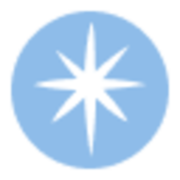
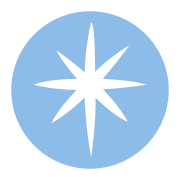
Updates

diff --git a/turntable-app/index.html b/turntable-app/index.html
@@ -48,7 +48,7 @@
         }
       }
     })
-  </script><link rel="canonical" href="https://seohee0507.github.io/gatsby-archive/turntable-app/" data-baseprotocol="https:" data-basehost="seohee0507.github.io"/><title data-react-helmet="true">Turntable 플레이리스트</title><link data-react-helmet="true" rel="icon" href="/gatsby-archive/favicon.ico"/><link data-react-helmet="true" rel="icon" href="/gatsby-archive/favicon.png" type="image/png" sizes="48x48"/><link data-react-helmet="true" rel="apple-touch-icon" href="/gatsby-archive/apple-touch-icon.png" sizes="180x180"/><link data-react-helmet="true" rel="apple-touch-icon-precomposed" href="/gatsby-archive/apple-touch-icon-precomposed.png" sizes="180x180"/><link rel="sitemap" type="application/xml" href="/gatsby-archive/sitemap-index.xml"/><script>(function(w,d,s,l,i){w[l]=w[l]||[];w[l].push({'gtm.start':
+  </script><link rel="canonical" href="https://seohee0507.github.io/gatsby-archive/turntable-app/" data-baseprotocol="https:" data-basehost="seohee0507.github.io"/><title data-react-helmet="true">Turntable 플레이리스트</title><link data-react-helmet="true" rel="icon" href="/gatsby-archive/favicon.ico"/><link data-react-helmet="true" rel="shortcut icon" href="/gatsby-archive/favicon.ico" type="image/x-icon"/><link data-react-helmet="true" rel="icon" href="/gatsby-archive/favicon.png" sizes="48x48"/><link data-react-helmet="true" rel="apple-touch-icon" href="/gatsby-archive/apple-touch-icon.png" sizes="180x180"/><link data-react-helmet="true" rel="apple-touch-icon-precomposed" href="/gatsby-archive/apple-touch-icon-precomposed.png" sizes="180x180"/><link rel="sitemap" type="application/xml" href="/gatsby-archive/sitemap-index.xml"/><script>(function(w,d,s,l,i){w[l]=w[l]||[];w[l].push({'gtm.start':
 new Date().getTime(),event:'gtm.js'});var f=d.getElementsByTagName(s)[0],
 j=d.createElement(s),dl=l!='dataLayer'?'&l='+l:'';j.async=true;j.src=
 'https://www.googletagmanager.com/gtm.js?id='+i+dl;f.parentNode.insertBefore(j,f);
@@ -112,8 +112,19 @@ j=d.createElement(s),dl=l!='dataLayer'?'&l='+l:'';j.async=true;j.src=
 <li>시각적 위계</li>
 <li>텍스트 가독성 : 앨범커버에 이미지 그라데이션 블러 추가</li>
 </ul>
-<h2 id="구현-순서" style="position:relative;"><a href="#%EA%B5%AC%ED%98%84-%EC%88%9C%EC%84%9C" aria-label="구현 순서 permalink" class="link-headers before"><svg aria-hidden="true" focusable="false" height="16" version="1.1" viewBox="0 0 16 16" width="16"><path fill-rule="evenodd" d="M4 9h1v1H4c-1.5 0-3-1.69-3-3.5S2.55 3 4 3h4c1.45 0 3 1.69 3 3.5 0 1.41-.91 2.72-2 3.25V8.59c.58-.45 1-1.27 1-2.09C10 5.22 8.98 4 8 4H4c-.98 0-2 1.22-2 2.5S3 9 4 9zm9-3h-1v1h1c1 0 2 1.22 2 2.5S13.98 12 13 12H9c-.98 0-2-1.22-2-2.5 0-.83.42-1.64 1-2.09V6.25c-1.09.53-2 1.84-2 3.25C6 11.31 7.55 13 9 13h4c1.45 0 3-1.69 3-3.5S14.5 6 13 6z"></path></svg></a>구현 순서</h2>
+<h2 id="구현" style="position:relative;"><a href="#%EA%B5%AC%ED%98%84" aria-label="구현 permalink" class="link-headers before"><svg aria-hidden="true" focusable="false" height="16" version="1.1" viewBox="0 0 16 16" width="16"><path fill-rule="evenodd" d="M4 9h1v1H4c-1.5 0-3-1.69-3-3.5S2.55 3 4 3h4c1.45 0 3 1.69 3 3.5 0 1.41-.91 2.72-2 3.25V8.59c.58-.45 1-1.27 1-2.09C10 5.22 8.98 4 8 4H4c-.98 0-2 1.22-2 2.5S3 9 4 9zm9-3h-1v1h1c1 0 2 1.22 2 2.5S13.98 12 13 12H9c-.98 0-2-1.22-2-2.5 0-.83.42-1.64 1-2.09V6.25c-1.09.53-2 1.84-2 3.25C6 11.31 7.55 13 9 13h4c1.45 0 3-1.69 3-3.5S14.5 6 13 6z"></path></svg></a>구현</h2>
 <ol>
+<li>플레이리스트 데이터 스키마 설계 및 데이터 구축</li>
+</ol>
+<ul>
+<li>데이터 생성
+<ul>
+<li>YouTube API :</li>
+</ul>
+</li>
+<li>데이터 저장 → Supabase</li>
+</ul>
+<ol start="2">
 <li></li>
 </ol>
 <h2 id="로그인-회원가입" style="position:relative;"><a href="#%EB%A1%9C%EA%B7%B8%EC%9D%B8-%ED%9A%8C%EC%9B%90%EA%B0%80%EC%9E%85" aria-label="로그인 회원가입 permalink" class="link-headers before"><svg aria-hidden="true" focusable="false" height="16" version="1.1" viewBox="0 0 16 16" width="16"><path fill-rule="evenodd" d="M4 9h1v1H4c-1.5 0-3-1.69-3-3.5S2.55 3 4 3h4c1.45 0 3 1.69 3 3.5 0 1.41-.91 2.72-2 3.25V8.59c.58-.45 1-1.27 1-2.09C10 5.22 8.98 4 8 4H4c-.98 0-2 1.22-2 2.5S3 9 4 9zm9-3h-1v1h1c1 0 2 1.22 2 2.5S13.98 12 13 12H9c-.98 0-2-1.22-2-2.5 0-.83.42-1.64 1-2.09V6.25c-1.09.53-2 1.84-2 3.25C6 11.31 7.55 13 9 13h4c1.45 0 3-1.69 3-3.5S14.5 6 13 6z"></path></svg></a>로그인, 회원가입</h2>
@@ -448,6 +459,6 @@ j=d.createElement(s),dl=l!='dataLayer'?'&l='+l:'';j.async=true;j.src=
           <script
             id="gatsby-chunk-mapping"
           >
-            window.___chunkMapping="{\"app\":[\"/app-f07a150d71677f47d353.js\"],\"component---src-pages-404-tsx\":[\"/component---src-pages-404-tsx-8a74a841a3266e3b5e38.js\"],\"component---src-pages-index-tsx\":[],\"component---src-templates-post-template-tsx\":[\"/component---src-templates-post-template-tsx-955b84999181d3f61f6b.js\"]}";
+            window.___chunkMapping="{\"app\":[\"/app-03278e0438caac6f417a.js\"],\"component---src-pages-404-tsx\":[\"/component---src-pages-404-tsx-8a74a841a3266e3b5e38.js\"],\"component---src-pages-index-tsx\":[],\"component---src-templates-post-template-tsx\":[\"/component---src-templates-post-template-tsx-955b84999181d3f61f6b.js\"]}";
           </script>
-        <script>window.___webpackCompilationHash="7110666ce4c1a349ba5c";</script><script src="/gatsby-archive/webpack-runtime-16017e0074101bbbb339.js" async></script><script src="/gatsby-archive/app-f07a150d71677f47d353.js" async></script><!-- slice-end id="_gatsby-scripts-1" --></body></html>
+        <script>window.___webpackCompilationHash="da50b0e5b136f4c87446";</script><script src="/gatsby-archive/webpack-runtime-16017e0074101bbbb339.js" async></script><script src="/gatsby-archive/app-03278e0438caac6f417a.js" async></script><!-- slice-end id="_gatsby-scripts-1" --></body></html>

diff --git a/browser-basic/index.html b/browser-basic/index.html
@@ -48,7 +48,7 @@
         }
       }
     })
-  </script><link rel="canonical" href="https://seohee0507.github.io/gatsby-archive/browser-basic/" data-baseprotocol="https:" data-basehost="seohee0507.github.io"/><title data-react-helmet="true">브라우저 구조</title><link data-react-helmet="true" rel="icon" href="/gatsby-archive/favicon.ico"/><link data-react-helmet="true" rel="icon" href="/gatsby-archive/favicon.png" type="image/png" sizes="48x48"/><link data-react-helmet="true" rel="apple-touch-icon" href="/gatsby-archive/apple-touch-icon.png" sizes="180x180"/><link data-react-helmet="true" rel="apple-touch-icon-precomposed" href="/gatsby-archive/apple-touch-icon-precomposed.png" sizes="180x180"/><link rel="sitemap" type="application/xml" href="/gatsby-archive/sitemap-index.xml"/><script>(function(w,d,s,l,i){w[l]=w[l]||[];w[l].push({'gtm.start':
+  </script><link rel="canonical" href="https://seohee0507.github.io/gatsby-archive/browser-basic/" data-baseprotocol="https:" data-basehost="seohee0507.github.io"/><title data-react-helmet="true">브라우저 구조</title><link data-react-helmet="true" rel="icon" href="/gatsby-archive/favicon.ico"/><link data-react-helmet="true" rel="shortcut icon" href="/gatsby-archive/favicon.ico" type="image/x-icon"/><link data-react-helmet="true" rel="icon" href="/gatsby-archive/favicon.png" sizes="48x48"/><link data-react-helmet="true" rel="apple-touch-icon" href="/gatsby-archive/apple-touch-icon.png" sizes="180x180"/><link data-react-helmet="true" rel="apple-touch-icon-precomposed" href="/gatsby-archive/apple-touch-icon-precomposed.png" sizes="180x180"/><link rel="sitemap" type="application/xml" href="/gatsby-archive/sitemap-index.xml"/><script>(function(w,d,s,l,i){w[l]=w[l]||[];w[l].push({'gtm.start':
 new Date().getTime(),event:'gtm.js'});var f=d.getElementsByTagName(s)[0],
 j=d.createElement(s),dl=l!='dataLayer'?'&l='+l:'';j.async=true;j.src=
 'https://www.googletagmanager.com/gtm.js?id='+i+dl;f.parentNode.insertBefore(j,f);
@@ -197,6 +197,6 @@ HTML(dummy) → React Application initialized → Interactive App
           <script
             id="gatsby-chunk-mapping"
           >
-            window.___chunkMapping="{\"app\":[\"/app-f07a150d71677f47d353.js\"],\"component---src-pages-404-tsx\":[\"/component---src-pages-404-tsx-8a74a841a3266e3b5e38.js\"],\"component---src-pages-index-tsx\":[],\"component---src-templates-post-template-tsx\":[\"/component---src-templates-post-template-tsx-955b84999181d3f61f6b.js\"]}";
+            window.___chunkMapping="{\"app\":[\"/app-03278e0438caac6f417a.js\"],\"component---src-pages-404-tsx\":[\"/component---src-pages-404-tsx-8a74a841a3266e3b5e38.js\"],\"component---src-pages-index-tsx\":[],\"component---src-templates-post-template-tsx\":[\"/component---src-templates-post-template-tsx-955b84999181d3f61f6b.js\"]}";
           </script>
-        <script>window.___webpackCompilationHash="7110666ce4c1a349ba5c";</script><script src="/gatsby-archive/webpack-runtime-16017e0074101bbbb339.js" async></script><script src="/gatsby-archive/app-f07a150d71677f47d353.js" async></script><!-- slice-end id="_gatsby-scripts-1" --></body></html>
+        <script>window.___webpackCompilationHash="da50b0e5b136f4c87446";</script><script src="/gatsby-archive/webpack-runtime-16017e0074101bbbb339.js" async></script><script src="/gatsby-archive/app-03278e0438caac6f417a.js" async></script><!-- slice-end id="_gatsby-scripts-1" --></body></html>

diff --git a/css-features/index.html b/css-features/index.html
@@ -48,7 +48,7 @@
         }
       }
     })
-  </script><link rel="canonical" href="https://seohee0507.github.io/gatsby-archive/css-features/" data-baseprotocol="https:" data-basehost="seohee0507.github.io"/><title data-react-helmet="true">css features</title><link data-react-helmet="true" rel="icon" href="/gatsby-archive/favicon.ico"/><link data-react-helmet="true" rel="icon" href="/gatsby-archive/favicon.png" type="image/png" sizes="48x48"/><link data-react-helmet="true" rel="apple-touch-icon" href="/gatsby-archive/apple-touch-icon.png" sizes="180x180"/><link data-react-helmet="true" rel="apple-touch-icon-precomposed" href="/gatsby-archive/apple-touch-icon-precomposed.png" sizes="180x180"/><link rel="sitemap" type="application/xml" href="/gatsby-archive/sitemap-index.xml"/><script>(function(w,d,s,l,i){w[l]=w[l]||[];w[l].push({'gtm.start':
+  </script><link rel="canonical" href="https://seohee0507.github.io/gatsby-archive/css-features/" data-baseprotocol="https:" data-basehost="seohee0507.github.io"/><title data-react-helmet="true">css features</title><link data-react-helmet="true" rel="icon" href="/gatsby-archive/favicon.ico"/><link data-react-helmet="true" rel="shortcut icon" href="/gatsby-archive/favicon.ico" type="image/x-icon"/><link data-react-helmet="true" rel="icon" href="/gatsby-archive/favicon.png" sizes="48x48"/><link data-react-helmet="true" rel="apple-touch-icon" href="/gatsby-archive/apple-touch-icon.png" sizes="180x180"/><link data-react-helmet="true" rel="apple-touch-icon-precomposed" href="/gatsby-archive/apple-touch-icon-precomposed.png" sizes="180x180"/><link rel="sitemap" type="application/xml" href="/gatsby-archive/sitemap-index.xml"/><script>(function(w,d,s,l,i){w[l]=w[l]||[];w[l].push({'gtm.start':
 new Date().getTime(),event:'gtm.js'});var f=d.getElementsByTagName(s)[0],
 j=d.createElement(s),dl=l!='dataLayer'?'&l='+l:'';j.async=true;j.src=
 'https://www.googletagmanager.com/gtm.js?id='+i+dl;f.parentNode.insertBefore(j,f);
@@ -303,6 +303,6 @@ input:autofill:active</span> <span class="token punctuation">{</span>
           <script
             id="gatsby-chunk-mapping"
           >
-            window.___chunkMapping="{\"app\":[\"/app-f07a150d71677f47d353.js\"],\"component---src-pages-404-tsx\":[\"/component---src-pages-404-tsx-8a74a841a3266e3b5e38.js\"],\"component---src-pages-index-tsx\":[],\"component---src-templates-post-template-tsx\":[\"/component---src-templates-post-template-tsx-955b84999181d3f61f6b.js\"]}";
+            window.___chunkMapping="{\"app\":[\"/app-03278e0438caac6f417a.js\"],\"component---src-pages-404-tsx\":[\"/component---src-pages-404-tsx-8a74a841a3266e3b5e38.js\"],\"component---src-pages-index-tsx\":[],\"component---src-templates-post-template-tsx\":[\"/component---src-templates-post-template-tsx-955b84999181d3f61f6b.js\"]}";
           </script>
-        <script>window.___webpackCompilationHash="7110666ce4c1a349ba5c";</script><script src="/gatsby-archive/webpack-runtime-16017e0074101bbbb339.js" async></script><script src="/gatsby-archive/app-f07a150d71677f47d353.js" async></script><!-- slice-end id="_gatsby-scripts-1" --></body></html>
+        <script>window.___webpackCompilationHash="da50b0e5b136f4c87446";</script><script src="/gatsby-archive/webpack-runtime-16017e0074101bbbb339.js" async></script><script src="/gatsby-archive/app-03278e0438caac6f417a.js" async></script><!-- slice-end id="_gatsby-scripts-1" --></body></html>

diff --git a/design-system/index.html b/design-system/index.html
@@ -48,7 +48,7 @@
         }
       }
     })
-  </script><link rel="canonical" href="https://seohee0507.github.io/gatsby-archive/design-system/" data-baseprotocol="https:" data-basehost="seohee0507.github.io"/><title data-react-helmet="true">Design System</title><link data-react-helmet="true" rel="icon" href="/gatsby-archive/favicon.ico"/><link data-react-helmet="true" rel="icon" href="/gatsby-archive/favicon.png" type="image/png" sizes="48x48"/><link data-react-helmet="true" rel="apple-touch-icon" href="/gatsby-archive/apple-touch-icon.png" sizes="180x180"/><link data-react-helmet="true" rel="apple-touch-icon-precomposed" href="/gatsby-archive/apple-touch-icon-precomposed.png" sizes="180x180"/><link rel="sitemap" type="application/xml" href="/gatsby-archive/sitemap-index.xml"/><script>(function(w,d,s,l,i){w[l]=w[l]||[];w[l].push({'gtm.start':
+  </script><link rel="canonical" href="https://seohee0507.github.io/gatsby-archive/design-system/" data-baseprotocol="https:" data-basehost="seohee0507.github.io"/><title data-react-helmet="true">Design System</title><link data-react-helmet="true" rel="icon" href="/gatsby-archive/favicon.ico"/><link data-react-helmet="true" rel="shortcut icon" href="/gatsby-archive/favicon.ico" type="image/x-icon"/><link data-react-helmet="true" rel="icon" href="/gatsby-archive/favicon.png" sizes="48x48"/><link data-react-helmet="true" rel="apple-touch-icon" href="/gatsby-archive/apple-touch-icon.png" sizes="180x180"/><link data-react-helmet="true" rel="apple-touch-icon-precomposed" href="/gatsby-archive/apple-touch-icon-precomposed.png" sizes="180x180"/><link rel="sitemap" type="application/xml" href="/gatsby-archive/sitemap-index.xml"/><script>(function(w,d,s,l,i){w[l]=w[l]||[];w[l].push({'gtm.start':
 new Date().getTime(),event:'gtm.js'});var f=d.getElementsByTagName(s)[0],
 j=d.createElement(s),dl=l!='dataLayer'?'&l='+l:'';j.async=true;j.src=
 'https://www.googletagmanager.com/gtm.js?id='+i+dl;f.parentNode.insertBefore(j,f);
@@ -416,6 +416,6 @@ When generating UI:
           <script
             id="gatsby-chunk-mapping"
           >
-            window.___chunkMapping="{\"app\":[\"/app-f07a150d71677f47d353.js\"],\"component---src-pages-404-tsx\":[\"/component---src-pages-404-tsx-8a74a841a3266e3b5e38.js\"],\"component---src-pages-index-tsx\":[],\"component---src-templates-post-template-tsx\":[\"/component---src-templates-post-template-tsx-955b84999181d3f61f6b.js\"]}";
+            window.___chunkMapping="{\"app\":[\"/app-03278e0438caac6f417a.js\"],\"component---src-pages-404-tsx\":[\"/component---src-pages-404-tsx-8a74a841a3266e3b5e38.js\"],\"component---src-pages-index-tsx\":[],\"component---src-templates-post-template-tsx\":[\"/component---src-templates-post-template-tsx-955b84999181d3f61f6b.js\"]}";
           </script>
-        <script>window.___webpackCompilationHash="7110666ce4c1a349ba5c";</script><script src="/gatsby-archive/webpack-runtime-16017e0074101bbbb339.js" async></script><script src="/gatsby-archive/app-f07a150d71677f47d353.js" async></script><!-- slice-end id="_gatsby-scripts-1" --></body></html>
+        <script>window.___webpackCompilationHash="da50b0e5b136f4c87446";</script><script src="/gatsby-archive/webpack-runtime-16017e0074101bbbb339.js" async></script><script src="/gatsby-archive/app-03278e0438caac6f417a.js" async></script><!-- slice-end id="_gatsby-scripts-1" --></body></html>

diff --git a/framer-motion/index.html b/framer-motion/index.html
@@ -48,7 +48,7 @@
         }
       }
     })
-  </script><link rel="canonical" href="https://seohee0507.github.io/gatsby-archive/framer-motion/" data-baseprotocol="https:" data-basehost="seohee0507.github.io"/><title data-react-helmet="true">Framer Motion 기초</title><link data-react-helmet="true" rel="icon" href="/gatsby-archive/favicon.ico"/><link data-react-helmet="true" rel="icon" href="/gatsby-archive/favicon.png" type="image/png" sizes="48x48"/><link data-react-helmet="true" rel="apple-touch-icon" href="/gatsby-archive/apple-touch-icon.png" sizes="180x180"/><link data-react-helmet="true" rel="apple-touch-icon-precomposed" href="/gatsby-archive/apple-touch-icon-precomposed.png" sizes="180x180"/><link rel="sitemap" type="application/xml" href="/gatsby-archive/sitemap-index.xml"/><script>(function(w,d,s,l,i){w[l]=w[l]||[];w[l].push({'gtm.start':
+  </script><link rel="canonical" href="https://seohee0507.github.io/gatsby-archive/framer-motion/" data-baseprotocol="https:" data-basehost="seohee0507.github.io"/><title data-react-helmet="true">Framer Motion 기초</title><link data-react-helmet="true" rel="icon" href="/gatsby-archive/favicon.ico"/><link data-react-helmet="true" rel="shortcut icon" href="/gatsby-archive/favicon.ico" type="image/x-icon"/><link data-react-helmet="true" rel="icon" href="/gatsby-archive/favicon.png" sizes="48x48"/><link data-react-helmet="true" rel="apple-touch-icon" href="/gatsby-archive/apple-touch-icon.png" sizes="180x180"/><link data-react-helmet="true" rel="apple-touch-icon-precomposed" href="/gatsby-archive/apple-touch-icon-precomposed.png" sizes="180x180"/><link rel="sitemap" type="application/xml" href="/gatsby-archive/sitemap-index.xml"/><script>(function(w,d,s,l,i){w[l]=w[l]||[];w[l].push({'gtm.start':
 new Date().getTime(),event:'gtm.js'});var f=d.getElementsByTagName(s)[0],
 j=d.createElement(s),dl=l!='dataLayer'?'&l='+l:'';j.async=true;j.src=
 'https://www.googletagmanager.com/gtm.js?id='+i+dl;f.parentNode.insertBefore(j,f);
@@ -280,6 +280,6 @@ j=d.createElement(s),dl=l!='dataLayer'?'&l='+l:'';j.async=true;j.src=
           <script
             id="gatsby-chunk-mapping"
           >
-            window.___chunkMapping="{\"app\":[\"/app-f07a150d71677f47d353.js\"],\"component---src-pages-404-tsx\":[\"/component---src-pages-404-tsx-8a74a841a3266e3b5e38.js\"],\"component---src-pages-index-tsx\":[],\"component---src-templates-post-template-tsx\":[\"/component---src-templates-post-template-tsx-955b84999181d3f61f6b.js\"]}";
+            window.___chunkMapping="{\"app\":[\"/app-03278e0438caac6f417a.js\"],\"component---src-pages-404-tsx\":[\"/component---src-pages-404-tsx-8a74a841a3266e3b5e38.js\"],\"component---src-pages-index-tsx\":[],\"component---src-templates-post-template-tsx\":[\"/component---src-templates-post-template-tsx-955b84999181d3f61f6b.js\"]}";
           </script>
-        <script>window.___webpackCompilationHash="7110666ce4c1a349ba5c";</script><script src="/gatsby-archive/webpack-runtime-16017e0074101bbbb339.js" async></script><script src="/gatsby-archive/app-f07a150d71677f47d353.js" async></script><!-- slice-end id="_gatsby-scripts-1" --></body></html>
+        <script>window.___webpackCompilationHash="da50b0e5b136f4c87446";</script><script src="/gatsby-archive/webpack-runtime-16017e0074101bbbb339.js" async></script><script src="/gatsby-archive/app-03278e0438caac6f417a.js" async></script><!-- slice-end id="_gatsby-scripts-1" --></body></html>

diff --git a/gatsby-fuse-js/index.html b/gatsby-fuse-js/index.html
@@ -48,7 +48,7 @@
         }
       }
     })
-  </script><link rel="canonical" href="https://seohee0507.github.io/gatsby-archive/gatsby-fuse-js/" data-baseprotocol="https:" data-basehost="seohee0507.github.io"/><title data-react-helmet="true">Gatsby 검색기능</title><link data-react-helmet="true" rel="icon" href="/gatsby-archive/favicon.ico"/><link data-react-helmet="true" rel="icon" href="/gatsby-archive/favicon.png" type="image/png" sizes="48x48"/><link data-react-helmet="true" rel="apple-touch-icon" href="/gatsby-archive/apple-touch-icon.png" sizes="180x180"/><link data-react-helmet="true" rel="apple-touch-icon-precomposed" href="/gatsby-archive/apple-touch-icon-precomposed.png" sizes="180x180"/><link rel="sitemap" type="application/xml" href="/gatsby-archive/sitemap-index.xml"/><script>(function(w,d,s,l,i){w[l]=w[l]||[];w[l].push({'gtm.start':
+  </script><link rel="canonical" href="https://seohee0507.github.io/gatsby-archive/gatsby-fuse-js/" data-baseprotocol="https:" data-basehost="seohee0507.github.io"/><title data-react-helmet="true">Gatsby 검색기능</title><link data-react-helmet="true" rel="icon" href="/gatsby-archive/favicon.ico"/><link data-react-helmet="true" rel="shortcut icon" href="/gatsby-archive/favicon.ico" type="image/x-icon"/><link data-react-helmet="true" rel="icon" href="/gatsby-archive/favicon.png" sizes="48x48"/><link data-react-helmet="true" rel="apple-touch-icon" href="/gatsby-archive/apple-touch-icon.png" sizes="180x180"/><link data-react-helmet="true" rel="apple-touch-icon-precomposed" href="/gatsby-archive/apple-touch-icon-precomposed.png" sizes="180x180"/><link rel="sitemap" type="application/xml" href="/gatsby-archive/sitemap-index.xml"/><script>(function(w,d,s,l,i){w[l]=w[l]||[];w[l].push({'gtm.start':
 new Date().getTime(),event:'gtm.js'});var f=d.getElementsByTagName(s)[0],
 j=d.createElement(s),dl=l!='dataLayer'?'&l='+l:'';j.async=true;j.src=
 'https://www.googletagmanager.com/gtm.js?id='+i+dl;f.parentNode.insertBefore(j,f);
@@ -248,6 +248,6 @@ j=d.createElement(s),dl=l!='dataLayer'?'&l='+l:'';j.async=true;j.src=
           <script
             id="gatsby-chunk-mapping"
           >
-            window.___chunkMapping="{\"app\":[\"/app-f07a150d71677f47d353.js\"],\"component---src-pages-404-tsx\":[\"/component---src-pages-404-tsx-8a74a841a3266e3b5e38.js\"],\"component---src-pages-index-tsx\":[],\"component---src-templates-post-template-tsx\":[\"/component---src-templates-post-template-tsx-955b84999181d3f61f6b.js\"]}";
+            window.___chunkMapping="{\"app\":[\"/app-03278e0438caac6f417a.js\"],\"component---src-pages-404-tsx\":[\"/component---src-pages-404-tsx-8a74a841a3266e3b5e38.js\"],\"component---src-pages-index-tsx\":[],\"component---src-templates-post-template-tsx\":[\"/component---src-templates-post-template-tsx-955b84999181d3f61f6b.js\"]}";
           </script>
-        <script>window.___webpackCompilationHash="7110666ce4c1a349ba5c";</script><script src="/gatsby-archive/webpack-runtime-16017e0074101bbbb339.js" async></script><script src="/gatsby-archive/app-f07a150d71677f47d353.js" async></script><!-- slice-end id="_gatsby-scripts-1" --></body></html>
+        <script>window.___webpackCompilationHash="da50b0e5b136f4c87446";</script><script src="/gatsby-archive/webpack-runtime-16017e0074101bbbb339.js" async></script><script src="/gatsby-archive/app-03278e0438caac6f417a.js" async></script><!-- slice-end id="_gatsby-scripts-1" --></body></html>

diff --git a/gatsby-pages/index.html b/gatsby-pages/index.html
@@ -48,7 +48,7 @@
         }
       }
     })
-  </script><link rel="canonical" href="https://seohee0507.github.io/gatsby-archive/gatsby-pages/" data-baseprotocol="https:" data-basehost="seohee0507.github.io"/><title data-react-helmet="true">Gatsby 페이지 구현하기</title><link data-react-helmet="true" rel="icon" href="/gatsby-archive/favicon.ico"/><link data-react-helmet="true" rel="icon" href="/gatsby-archive/favicon.png" type="image/png" sizes="48x48"/><link data-react-helmet="true" rel="apple-touch-icon" href="/gatsby-archive/apple-touch-icon.png" sizes="180x180"/><link data-react-helmet="true" rel="apple-touch-icon-precomposed" href="/gatsby-archive/apple-touch-icon-precomposed.png" sizes="180x180"/><link rel="sitemap" type="application/xml" href="/gatsby-archive/sitemap-index.xml"/><script>(function(w,d,s,l,i){w[l]=w[l]||[];w[l].push({'gtm.start':
+  </script><link rel="canonical" href="https://seohee0507.github.io/gatsby-archive/gatsby-pages/" data-baseprotocol="https:" data-basehost="seohee0507.github.io"/><title data-react-helmet="true">Gatsby 페이지 구현하기</title><link data-react-helmet="true" rel="icon" href="/gatsby-archive/favicon.ico"/><link data-react-helmet="true" rel="shortcut icon" href="/gatsby-archive/favicon.ico" type="image/x-icon"/><link data-react-helmet="true" rel="icon" href="/gatsby-archive/favicon.png" sizes="48x48"/><link data-react-helmet="true" rel="apple-touch-icon" href="/gatsby-archive/apple-touch-icon.png" sizes="180x180"/><link data-react-helmet="true" rel="apple-touch-icon-precomposed" href="/gatsby-archive/apple-touch-icon-precomposed.png" sizes="180x180"/><link rel="sitemap" type="application/xml" href="/gatsby-archive/sitemap-index.xml"/><script>(function(w,d,s,l,i){w[l]=w[l]||[];w[l].push({'gtm.start':
 new Date().getTime(),event:'gtm.js'});var f=d.getElementsByTagName(s)[0],
 j=d.createElement(s),dl=l!='dataLayer'?'&l='+l:'';j.async=true;j.src=
 'https://www.googletagmanager.com/gtm.js?id='+i+dl;f.parentNode.insertBefore(j,f);
@@ -500,6 +500,6 @@ query <span class="token function">queryMarkdownDataBySlug</span><span class="to
           <script
             id="gatsby-chunk-mapping"
           >
-            window.___chunkMapping="{\"app\":[\"/app-f07a150d71677f47d353.js\"],\"component---src-pages-404-tsx\":[\"/component---src-pages-404-tsx-8a74a841a3266e3b5e38.js\"],\"component---src-pages-index-tsx\":[],\"component---src-templates-post-template-tsx\":[\"/component---src-templates-post-template-tsx-955b84999181d3f61f6b.js\"]}";
+            window.___chunkMapping="{\"app\":[\"/app-03278e0438caac6f417a.js\"],\"component---src-pages-404-tsx\":[\"/component---src-pages-404-tsx-8a74a841a3266e3b5e38.js\"],\"component---src-pages-index-tsx\":[],\"component---src-templates-post-template-tsx\":[\"/component---src-templates-post-template-tsx-955b84999181d3f61f6b.js\"]}";
           </script>
-        <script>window.___webpackCompilationHash="7110666ce4c1a349ba5c";</script><script src="/gatsby-archive/webpack-runtime-16017e0074101bbbb339.js" async></script><script src="/gatsby-archive/app-f07a150d71677f47d353.js" async></script><!-- slice-end id="_gatsby-scripts-1" --></body></html>
+        <script>window.___webpackCompilationHash="da50b0e5b136f4c87446";</script><script src="/gatsby-archive/webpack-runtime-16017e0074101bbbb339.js" async></script><script src="/gatsby-archive/app-03278e0438caac6f417a.js" async></script><!-- slice-end id="_gatsby-scripts-1" --></body></html>

diff --git a/gatsby-starter/index.html b/gatsby-starter/index.html
@@ -48,7 +48,7 @@
         }
       }
     })
-  </script><link rel="canonical" href="https://seohee0507.github.io/gatsby-archive/gatsby-starter/" data-baseprotocol="https:" data-basehost="seohee0507.github.io"/><title data-react-helmet="true">Gatsby 프로젝트 생성</title><link data-react-helmet="true" rel="icon" href="/gatsby-archive/favicon.ico"/><link data-react-helmet="true" rel="icon" href="/gatsby-archive/favicon.png" type="image/png" sizes="48x48"/><link data-react-helmet="true" rel="apple-touch-icon" href="/gatsby-archive/apple-touch-icon.png" sizes="180x180"/><link data-react-helmet="true" rel="apple-touch-icon-precomposed" href="/gatsby-archive/apple-touch-icon-precomposed.png" sizes="180x180"/><link rel="sitemap" type="application/xml" href="/gatsby-archive/sitemap-index.xml"/><script>(function(w,d,s,l,i){w[l]=w[l]||[];w[l].push({'gtm.start':
+  </script><link rel="canonical" href="https://seohee0507.github.io/gatsby-archive/gatsby-starter/" data-baseprotocol="https:" data-basehost="seohee0507.github.io"/><title data-react-helmet="true">Gatsby 프로젝트 생성</title><link data-react-helmet="true" rel="icon" href="/gatsby-archive/favicon.ico"/><link data-react-helmet="true" rel="shortcut icon" href="/gatsby-archive/favicon.ico" type="image/x-icon"/><link data-react-helmet="true" rel="icon" href="/gatsby-archive/favicon.png" sizes="48x48"/><link data-react-helmet="true" rel="apple-touch-icon" href="/gatsby-archive/apple-touch-icon.png" sizes="180x180"/><link data-react-helmet="true" rel="apple-touch-icon-precomposed" href="/gatsby-archive/apple-touch-icon-precomposed.png" sizes="180x180"/><link rel="sitemap" type="application/xml" href="/gatsby-archive/sitemap-index.xml"/><script>(function(w,d,s,l,i){w[l]=w[l]||[];w[l].push({'gtm.start':
 new Date().getTime(),event:'gtm.js'});var f=d.getElementsByTagName(s)[0],
 j=d.createElement(s),dl=l!='dataLayer'?'&l='+l:'';j.async=true;j.src=
 'https://www.googletagmanager.com/gtm.js?id='+i+dl;f.parentNode.insertBefore(j,f);
@@ -554,6 +554,6 @@ exports<span class="token punctuation">.</span><span class="token function-varia
           <script
             id="gatsby-chunk-mapping"
           >
-            window.___chunkMapping="{\"app\":[\"/app-f07a150d71677f47d353.js\"],\"component---src-pages-404-tsx\":[\"/component---src-pages-404-tsx-8a74a841a3266e3b5e38.js\"],\"component---src-pages-index-tsx\":[],\"component---src-templates-post-template-tsx\":[\"/component---src-templates-post-template-tsx-955b84999181d3f61f6b.js\"]}";
+            window.___chunkMapping="{\"app\":[\"/app-03278e0438caac6f417a.js\"],\"component---src-pages-404-tsx\":[\"/component---src-pages-404-tsx-8a74a841a3266e3b5e38.js\"],\"component---src-pages-index-tsx\":[],\"component---src-templates-post-template-tsx\":[\"/component---src-templates-post-template-tsx-955b84999181d3f61f6b.js\"]}";
           </script>
-        <script>window.___webpackCompilationHash="7110666ce4c1a349ba5c";</script><script src="/gatsby-archive/webpack-runtime-16017e0074101bbbb339.js" async></script><script src="/gatsby-archive/app-f07a150d71677f47d353.js" async></script><!-- slice-end id="_gatsby-scripts-1" --></body></html>
+        <script>window.___webpackCompilationHash="da50b0e5b136f4c87446";</script><script src="/gatsby-archive/webpack-runtime-16017e0074101bbbb339.js" async></script><script src="/gatsby-archive/app-03278e0438caac6f417a.js" async></script><!-- slice-end id="_gatsby-scripts-1" --></body></html>

diff --git a/gatsby-table-plugin/index.html b/gatsby-table-plugin/index.html
@@ -48,7 +48,7 @@
         }
       }
     })
-  </script><link rel="canonical" href="https://seohee0507.github.io/gatsby-archive/gatsby-table-plugin/" data-baseprotocol="https:" data-basehost="seohee0507.github.io"/><title data-react-helmet="true">Gatsby Markdown table에 가로스크롤 추가하기</title><link data-react-helmet="true" rel="icon" href="/gatsby-archive/favicon.ico"/><link data-react-helmet="true" rel="icon" href="/gatsby-archive/favicon.png" type="image/png" sizes="48x48"/><link data-react-helmet="true" rel="apple-touch-icon" href="/gatsby-archive/apple-touch-icon.png" sizes="180x180"/><link data-react-helmet="true" rel="apple-touch-icon-precomposed" href="/gatsby-archive/apple-touch-icon-precomposed.png" sizes="180x180"/><link rel="sitemap" type="application/xml" href="/gatsby-archive/sitemap-index.xml"/><script>(function(w,d,s,l,i){w[l]=w[l]||[];w[l].push({'gtm.start':
+  </script><link rel="canonical" href="https://seohee0507.github.io/gatsby-archive/gatsby-table-plugin/" data-baseprotocol="https:" data-basehost="seohee0507.github.io"/><title data-react-helmet="true">Gatsby Markdown table에 가로스크롤 추가하기</title><link data-react-helmet="true" rel="icon" href="/gatsby-archive/favicon.ico"/><link data-react-helmet="true" rel="shortcut icon" href="/gatsby-archive/favicon.ico" type="image/x-icon"/><link data-react-helmet="true" rel="icon" href="/gatsby-archive/favicon.png" sizes="48x48"/><link data-react-helmet="true" rel="apple-touch-icon" href="/gatsby-archive/apple-touch-icon.png" sizes="180x180"/><link data-react-helmet="true" rel="apple-touch-icon-precomposed" href="/gatsby-archive/apple-touch-icon-precomposed.png" sizes="180x180"/><link rel="sitemap" type="application/xml" href="/gatsby-archive/sitemap-index.xml"/><script>(function(w,d,s,l,i){w[l]=w[l]||[];w[l].push({'gtm.start':
 new Date().getTime(),event:'gtm.js'});var f=d.getElementsByTagName(s)[0],
 j=d.createElement(s),dl=l!='dataLayer'?'&l='+l:'';j.async=true;j.src=
 'https://www.googletagmanager.com/gtm.js?id='+i+dl;f.parentNode.insertBefore(j,f);
@@ -112,6 +112,6 @@ module<span class="token punctuation">.</span><span class="token function-variab
           <script
             id="gatsby-chunk-mapping"
           >
-            window.___chunkMapping="{\"app\":[\"/app-f07a150d71677f47d353.js\"],\"component---src-pages-404-tsx\":[\"/component---src-pages-404-tsx-8a74a841a3266e3b5e38.js\"],\"component---src-pages-index-tsx\":[],\"component---src-templates-post-template-tsx\":[\"/component---src-templates-post-template-tsx-955b84999181d3f61f6b.js\"]}";
+            window.___chunkMapping="{\"app\":[\"/app-03278e0438caac6f417a.js\"],\"component---src-pages-404-tsx\":[\"/component---src-pages-404-tsx-8a74a841a3266e3b5e38.js\"],\"component---src-pages-index-tsx\":[],\"component---src-templates-post-template-tsx\":[\"/component---src-templates-post-template-tsx-955b84999181d3f61f6b.js\"]}";
           </script>
-        <script>window.___webpackCompilationHash="7110666ce4c1a349ba5c";</script><script src="/gatsby-archive/webpack-runtime-16017e0074101bbbb339.js" async></script><script src="/gatsby-archive/app-f07a150d71677f47d353.js" async></script><!-- slice-end id="_gatsby-scripts-1" --></body></html>
+        <script>window.___webpackCompilationHash="da50b0e5b136f4c87446";</script><script src="/gatsby-archive/webpack-runtime-16017e0074101bbbb339.js" async></script><script src="/gatsby-archive/app-03278e0438caac6f417a.js" async></script><!-- slice-end id="_gatsby-scripts-1" --></body></html>

diff --git a/html-link-type/index.html b/html-link-type/index.html
@@ -48,7 +48,7 @@
         }
       }
     })
-  </script><link rel="canonical" href="https://seohee0507.github.io/gatsby-archive/html-link-type/" data-baseprotocol="https:" data-basehost="seohee0507.github.io"/><title data-react-helmet="true">HTML Link type, http-equiv</title><link data-react-helmet="true" rel="icon" href="/gatsby-archive/favicon.ico"/><link data-react-helmet="true" rel="icon" href="/gatsby-archive/favicon.png" type="image/png" sizes="48x48"/><link data-react-helmet="true" rel="apple-touch-icon" href="/gatsby-archive/apple-touch-icon.png" sizes="180x180"/><link data-react-helmet="true" rel="apple-touch-icon-precomposed" href="/gatsby-archive/apple-touch-icon-precomposed.png" sizes="180x180"/><link rel="sitemap" type="application/xml" href="/gatsby-archive/sitemap-index.xml"/><script>(function(w,d,s,l,i){w[l]=w[l]||[];w[l].push({'gtm.start':
+  </script><link rel="canonical" href="https://seohee0507.github.io/gatsby-archive/html-link-type/" data-baseprotocol="https:" data-basehost="seohee0507.github.io"/><title data-react-helmet="true">HTML Link type, http-equiv</title><link data-react-helmet="true" rel="icon" href="/gatsby-archive/favicon.ico"/><link data-react-helmet="true" rel="shortcut icon" href="/gatsby-archive/favicon.ico" type="image/x-icon"/><link data-react-helmet="true" rel="icon" href="/gatsby-archive/favicon.png" sizes="48x48"/><link data-react-helmet="true" rel="apple-touch-icon" href="/gatsby-archive/apple-touch-icon.png" sizes="180x180"/><link data-react-helmet="true" rel="apple-touch-icon-precomposed" href="/gatsby-archive/apple-touch-icon-precomposed.png" sizes="180x180"/><link rel="sitemap" type="application/xml" href="/gatsby-archive/sitemap-index.xml"/><script>(function(w,d,s,l,i){w[l]=w[l]||[];w[l].push({'gtm.start':
 new Date().getTime(),event:'gtm.js'});var f=d.getElementsByTagName(s)[0],
 j=d.createElement(s),dl=l!='dataLayer'?'&l='+l:'';j.async=true;j.src=
 'https://www.googletagmanager.com/gtm.js?id='+i+dl;f.parentNode.insertBefore(j,f);
@@ -115,6 +115,6 @@ j=d.createElement(s),dl=l!='dataLayer'?'&l='+l:'';j.async=true;j.src=
           <script
             id="gatsby-chunk-mapping"
           >
-            window.___chunkMapping="{\"app\":[\"/app-f07a150d71677f47d353.js\"],\"component---src-pages-404-tsx\":[\"/component---src-pages-404-tsx-8a74a841a3266e3b5e38.js\"],\"component---src-pages-index-tsx\":[],\"component---src-templates-post-template-tsx\":[\"/component---src-templates-post-template-tsx-955b84999181d3f61f6b.js\"]}";
+            window.___chunkMapping="{\"app\":[\"/app-03278e0438caac6f417a.js\"],\"component---src-pages-404-tsx\":[\"/component---src-pages-404-tsx-8a74a841a3266e3b5e38.js\"],\"component---src-pages-index-tsx\":[],\"component---src-templates-post-template-tsx\":[\"/component---src-templates-post-template-tsx-955b84999181d3f61f6b.js\"]}";
           </script>
-        <script>window.___webpackCompilationHash="7110666ce4c1a349ba5c";</script><script src="/gatsby-archive/webpack-runtime-16017e0074101bbbb339.js" async></script><script src="/gatsby-archive/app-f07a150d71677f47d353.js" async></script><!-- slice-end id="_gatsby-scripts-1" --></body></html>
+        <script>window.___webpackCompilationHash="da50b0e5b136f4c87446";</script><script src="/gatsby-archive/webpack-runtime-16017e0074101bbbb339.js" async></script><script src="/gatsby-archive/app-03278e0438caac6f417a.js" async></script><!-- slice-end id="_gatsby-scripts-1" --></body></html>

diff --git a/html-markup/index.html b/html-markup/index.html
@@ -48,7 +48,7 @@
         }
       }
     })
-  </script><link rel="canonical" href="https://seohee0507.github.io/gatsby-archive/html-markup/" data-baseprotocol="https:" data-basehost="seohee0507.github.io"/><title data-react-helmet="true">HTML Markup</title><link data-react-helmet="true" rel="icon" href="/gatsby-archive/favicon.ico"/><link data-react-helmet="true" rel="icon" href="/gatsby-archive/favicon.png" type="image/png" sizes="48x48"/><link data-react-helmet="true" rel="apple-touch-icon" href="/gatsby-archive/apple-touch-icon.png" sizes="180x180"/><link data-react-helmet="true" rel="apple-touch-icon-precomposed" href="/gatsby-archive/apple-touch-icon-precomposed.png" sizes="180x180"/><link rel="sitemap" type="application/xml" href="/gatsby-archive/sitemap-index.xml"/><script>(function(w,d,s,l,i){w[l]=w[l]||[];w[l].push({'gtm.start':
+  </script><link rel="canonical" href="https://seohee0507.github.io/gatsby-archive/html-markup/" data-baseprotocol="https:" data-basehost="seohee0507.github.io"/><title data-react-helmet="true">HTML Markup</title><link data-react-helmet="true" rel="icon" href="/gatsby-archive/favicon.ico"/><link data-react-helmet="true" rel="shortcut icon" href="/gatsby-archive/favicon.ico" type="image/x-icon"/><link data-react-helmet="true" rel="icon" href="/gatsby-archive/favicon.png" sizes="48x48"/><link data-react-helmet="true" rel="apple-touch-icon" href="/gatsby-archive/apple-touch-icon.png" sizes="180x180"/><link data-react-helmet="true" rel="apple-touch-icon-precomposed" href="/gatsby-archive/apple-touch-icon-precomposed.png" sizes="180x180"/><link rel="sitemap" type="application/xml" href="/gatsby-archive/sitemap-index.xml"/><script>(function(w,d,s,l,i){w[l]=w[l]||[];w[l].push({'gtm.start':
 new Date().getTime(),event:'gtm.js'});var f=d.getElementsByTagName(s)[0],
 j=d.createElement(s),dl=l!='dataLayer'?'&l='+l:'';j.async=true;j.src=
 'https://www.googletagmanager.com/gtm.js?id='+i+dl;f.parentNode.insertBefore(j,f);
@@ -381,6 +381,6 @@ JavaScript 사용하여 제어</p>
           <script
             id="gatsby-chunk-mapping"
           >
-            window.___chunkMapping="{\"app\":[\"/app-f07a150d71677f47d353.js\"],\"component---src-pages-404-tsx\":[\"/component---src-pages-404-tsx-8a74a841a3266e3b5e38.js\"],\"component---src-pages-index-tsx\":[],\"component---src-templates-post-template-tsx\":[\"/component---src-templates-post-template-tsx-955b84999181d3f61f6b.js\"]}";
+            window.___chunkMapping="{\"app\":[\"/app-03278e0438caac6f417a.js\"],\"component---src-pages-404-tsx\":[\"/component---src-pages-404-tsx-8a74a841a3266e3b5e38.js\"],\"component---src-pages-index-tsx\":[],\"component---src-templates-post-template-tsx\":[\"/component---src-templates-post-template-tsx-955b84999181d3f61f6b.js\"]}";
           </script>
-        <script>window.___webpackCompilationHash="7110666ce4c1a349ba5c";</script><script src="/gatsby-archive/webpack-runtime-16017e0074101bbbb339.js" async></script><script src="/gatsby-archive/app-f07a150d71677f47d353.js" async></script><!-- slice-end id="_gatsby-scripts-1" --></body></html>
+        <script>window.___webpackCompilationHash="da50b0e5b136f4c87446";</script><script src="/gatsby-archive/webpack-runtime-16017e0074101bbbb339.js" async></script><script src="/gatsby-archive/app-03278e0438caac6f417a.js" async></script><!-- slice-end id="_gatsby-scripts-1" --></body></html>

diff --git a/index.html b/index.html
@@ -48,7 +48,7 @@
         }
       }
     })
-  </script><link rel="canonical" href="https://seohee0507.github.io/gatsby-archive/" data-baseprotocol="https:" data-basehost="seohee0507.github.io"/><title data-react-helmet="true">SEOHEE Archive</title><link data-react-helmet="true" rel="icon" href="/gatsby-archive/favicon.ico"/><link data-react-helmet="true" rel="icon" href="/gatsby-archive/favicon.png" type="image/png" sizes="48x48"/><link data-react-helmet="true" rel="apple-touch-icon" href="/gatsby-archive/apple-touch-icon.png" sizes="180x180"/><link data-react-helmet="true" rel="apple-touch-icon-precomposed" href="/gatsby-archive/apple-touch-icon-precomposed.png" sizes="180x180"/><link rel="sitemap" type="application/xml" href="/gatsby-archive/sitemap-index.xml"/><script>(function(w,d,s,l,i){w[l]=w[l]||[];w[l].push({'gtm.start':
+  </script><link rel="canonical" href="https://seohee0507.github.io/gatsby-archive/" data-baseprotocol="https:" data-basehost="seohee0507.github.io"/><title data-react-helmet="true">SEOHEE Archive</title><link data-react-helmet="true" rel="icon" href="/gatsby-archive/favicon.ico"/><link data-react-helmet="true" rel="shortcut icon" href="/gatsby-archive/favicon.ico" type="image/x-icon"/><link data-react-helmet="true" rel="icon" href="/gatsby-archive/favicon.png" sizes="48x48"/><link data-react-helmet="true" rel="apple-touch-icon" href="/gatsby-archive/apple-touch-icon.png" sizes="180x180"/><link data-react-helmet="true" rel="apple-touch-icon-precomposed" href="/gatsby-archive/apple-touch-icon-precomposed.png" sizes="180x180"/><link rel="sitemap" type="application/xml" href="/gatsby-archive/sitemap-index.xml"/><script>(function(w,d,s,l,i){w[l]=w[l]||[];w[l].push({'gtm.start':
 new Date().getTime(),event:'gtm.js'});var f=d.getElementsByTagName(s)[0],
 j=d.createElement(s),dl=l!='dataLayer'?'&l='+l:'';j.async=true;j.src=
 'https://www.googletagmanager.com/gtm.js?id='+i+dl;f.parentNode.insertBefore(j,f);
@@ -57,6 +57,6 @@ j=d.createElement(s),dl=l!='dataLayer'?'&l='+l:'';j.async=true;j.src=
           <script
             id="gatsby-chunk-mapping"
           >
-            window.___chunkMapping="{\"app\":[\"/app-f07a150d71677f47d353.js\"],\"component---src-pages-404-tsx\":[\"/component---src-pages-404-tsx-8a74a841a3266e3b5e38.js\"],\"component---src-pages-index-tsx\":[],\"component---src-templates-post-template-tsx\":[\"/component---src-templates-post-template-tsx-955b84999181d3f61f6b.js\"]}";
+            window.___chunkMapping="{\"app\":[\"/app-03278e0438caac6f417a.js\"],\"component---src-pages-404-tsx\":[\"/component---src-pages-404-tsx-8a74a841a3266e3b5e38.js\"],\"component---src-pages-index-tsx\":[],\"component---src-templates-post-template-tsx\":[\"/component---src-templates-post-template-tsx-955b84999181d3f61f6b.js\"]}";
           </script>
-        <script>window.___webpackCompilationHash="7110666ce4c1a349ba5c";</script><script src="/gatsby-archive/webpack-runtime-16017e0074101bbbb339.js" async></script><script src="/gatsby-archive/app-f07a150d71677f47d353.js" async></script><!-- slice-end id="_gatsby-scripts-1" --></body></html>
+        <script>window.___webpackCompilationHash="da50b0e5b136f4c87446";</script><script src="/gatsby-archive/webpack-runtime-16017e0074101bbbb339.js" async></script><script src="/gatsby-archive/app-03278e0438caac6f417a.js" async></script><!-- slice-end id="_gatsby-scripts-1" --></body></html>